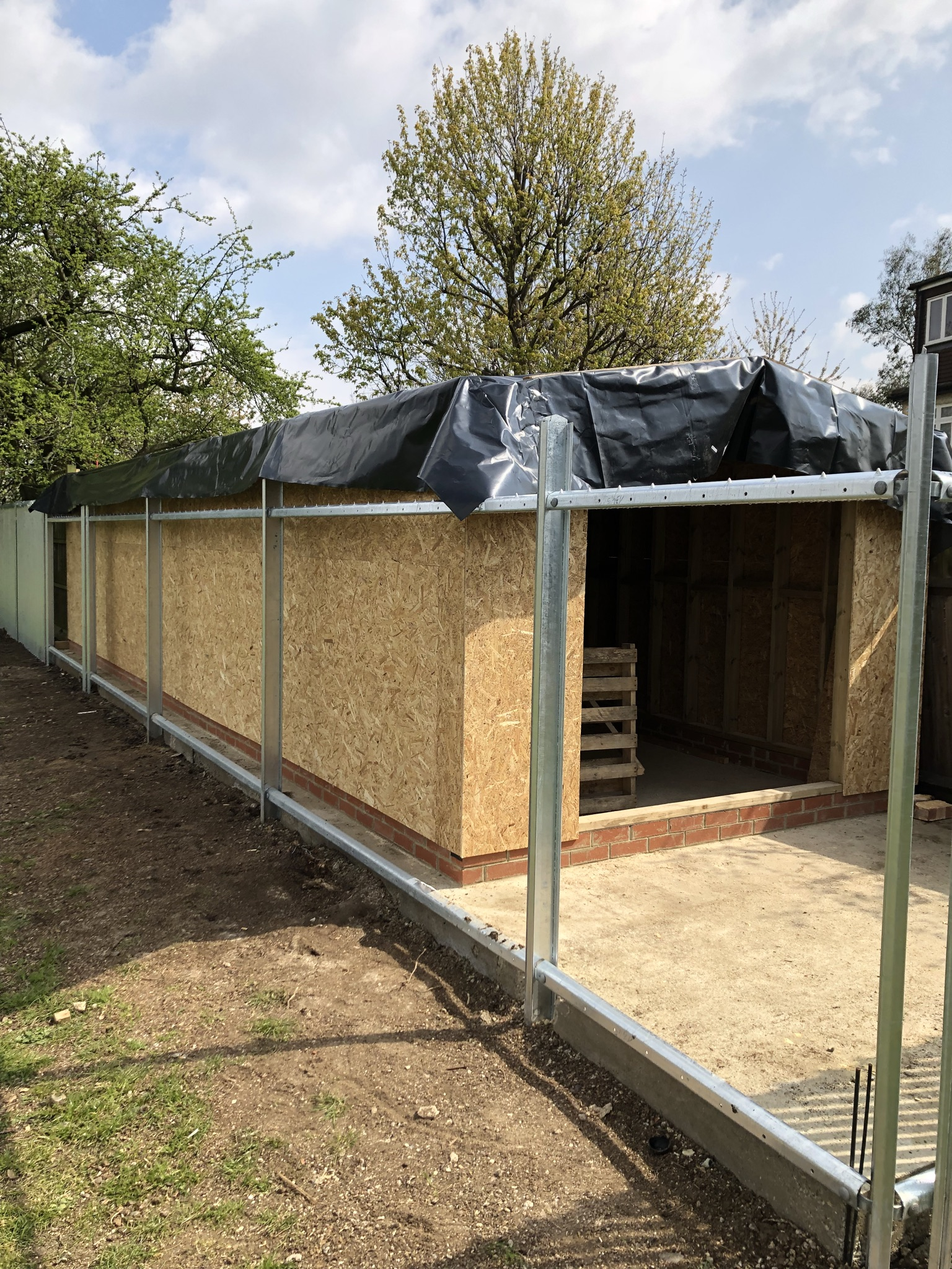
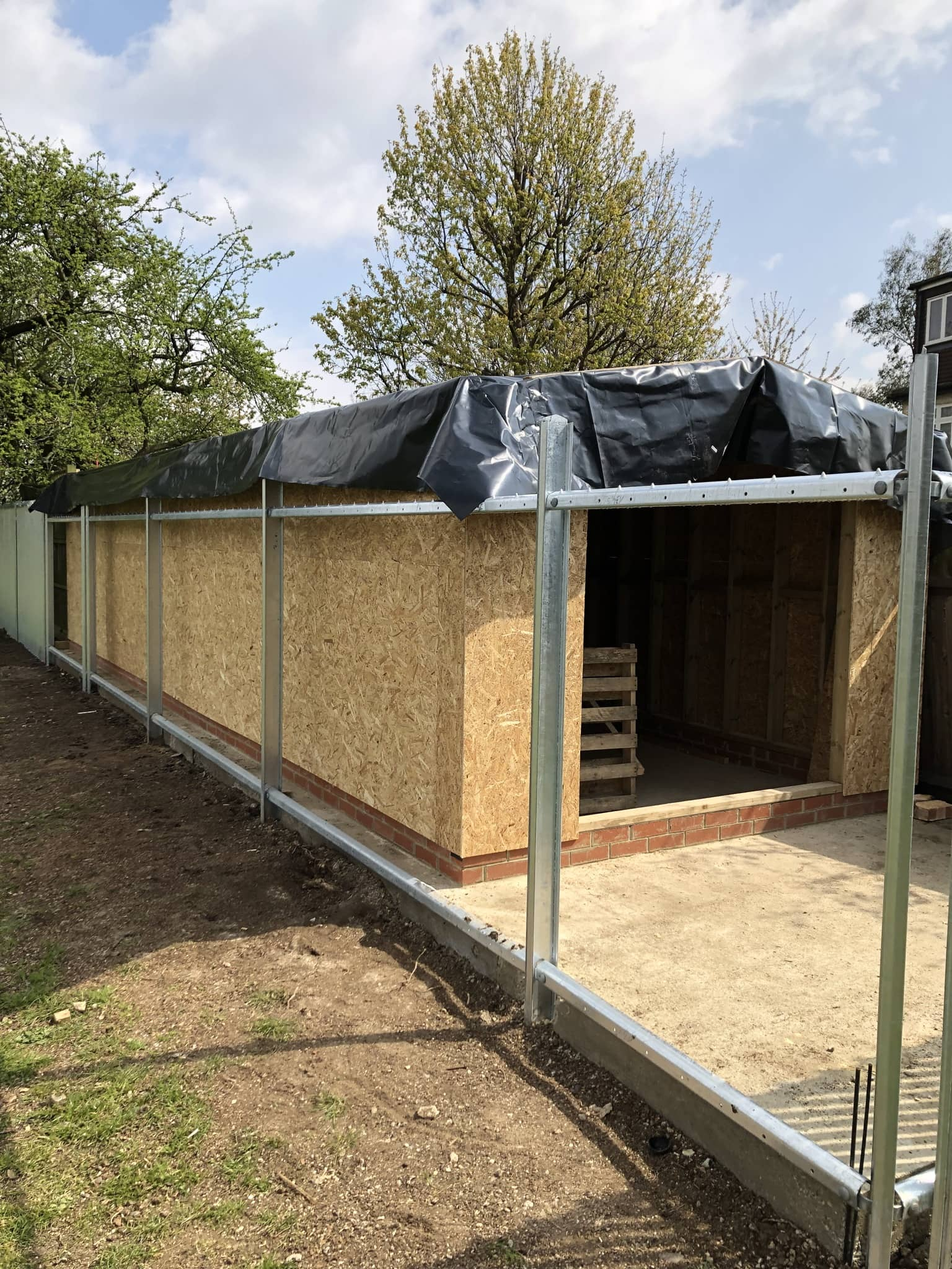
Optimised images for the site

diff --git a/gallery.html b/gallery.html
@@ -132,7 +132,43 @@
 
 			<!-- Gallery image container -->
 			<div class="gallery-img__container">
-				<img src="./assets/gallery/patio-wood.jpg" alt="Garden wooden patio with a wooden shed"
+				<img src="./assets/gallery/patio-wood.jpg" alt="Brown wooden patio"
+					class="gallery-img" loading='lazy'>
+			</div>
+
+			<!-- Gallery image container -->
+			<div class="gallery-img__container">
+				<img src="./assets/gallery/kitchen-island.JPG" alt="Kitchen island with blue LEDs"
+					class="gallery-img" loading='lazy'>
+			</div>
+
+			<!-- Gallery image container -->
+			<div class="gallery-img__container">
+				<img src="./assets/gallery/kitchen-tiles-1.JPEG" alt="Bright kitchen tiles with LEDs"
+					class="gallery-img" loading='lazy'>
+			</div>
+
+			<!-- Gallery image container -->
+			<div class="gallery-img__container">
+				<img src="./assets/gallery/plaster.JPEG" alt="Man plastering a ceiling"
+					class="gallery-img" loading='lazy'>
+			</div>
+
+			<!-- Gallery image container -->
+			<div class="gallery-img__container">
+				<img src="./assets/gallery/shed.JPEG" alt="Shed with big slide doors"
+					class="gallery-img" loading='lazy'>
+			</div>
+
+			<!-- Gallery image container -->
+			<div class="gallery-img__container">
+				<img src="./assets/gallery/fence.JPEG" alt="New wooden fence"
+					class="gallery-img" loading='lazy'>
+			</div>
+
+			<!-- Gallery image container -->
+			<div class="gallery-img__container">
+				<img src="./assets/gallery/wooden-shed-patio.jpg" alt="Wooden shed on a patio"
 					class="gallery-img" loading='lazy'>
 			</div>
 
@@ -209,8 +245,8 @@
 
 					<!-- Button container -->
 					<div class="btn__container btn__container--form">
-						<button class="btn" type='submit' title='Send message'>Send</button>
-						<button class="btn" type='reset' title='Reset form'>Reset</button>
+						<button class="btn btn--form" type='submit' title='Send message'>Send</button>
+						<button class="btn btn--form" type='reset' title='Reset form'>Reset</button>
 					</div>
 
 				</form>

diff --git a/index.html b/index.html
@@ -311,24 +311,6 @@
 					class="gallery-img" loading='lazy'>
 			</div>
 
-			<!-- Gallery image container -->
-			<div class="gallery-img__container">
-				<img src="./assets/gallery/kitchen-large.JPEG" alt="Kitchen with island table in the center"
-					class="gallery-img" loading='lazy'>
-			</div>
-
-			<!-- Gallery image container -->
-			<div class="gallery-img__container">
-				<img src="./assets/gallery/kitchen-small.JPEG" alt="Tiled kitchen with cabinets and lights"
-					class="gallery-img" loading='lazy'>
-			</div>
-
-			<!-- Gallery image container -->
-			<div class="gallery-img__container">
-				<img src="./assets/gallery/patio-wood.jpg" alt="Garden wooden patio with a wooden shed"
-					class="gallery-img" loading='lazy'>
-			</div>
-
 			<!-- Find out more btn container -->
 			<div class="btn__container">
 				<a href="gallery.html" title='See our gallery'>

diff --git a/style/style.css b/style/style.css
@@ -156,11 +156,19 @@ p {
     width: 2rem;
     height: 1rem;
   }
-  .burger:hover .line {
+  .burger:hover .line:first-child {
     -webkit-transform: none;
             transform: none;
   }
-  .burger:active .line {
+  .burger:hover .line:last-child {
+    -webkit-transform: none;
+            transform: none;
+  }
+  .burger:active .line:first-child {
+    -webkit-transform: none;
+            transform: none;
+  }
+  .burger:active .line:last-child {
     -webkit-transform: none;
             transform: none;
   }

diff --git a/bathroom.html b/bathroom.html
@@ -156,8 +156,8 @@
 
 					<!-- Button container -->
 					<div class="btn__container btn__container--form">
-						<button class="btn" type='submit' title='Send message'>Send</button>
-						<button class="btn" type='reset' title='Reset form'>Reset</button>
+						<button class="btn btn--form" type='submit' title='Send message'>Send</button>
+						<button class="btn btn--form" type='reset' title='Reset form'>Reset</button>
 					</div>
 
 				</form>

diff --git a/kitchen.html b/kitchen.html
@@ -168,8 +168,8 @@
 
 					<!-- Button container -->
 					<div class="btn__container btn__container--form">
-						<button class="btn" type='submit' title='Send message'>Send</button>
-						<button class="btn" type='reset' title='Reset form'>Reset</button>
+						<button class="btn btn--form" type='submit' title='Send message'>Send</button>
+						<button class="btn btn--form" type='reset' title='Reset form'>Reset</button>
 					</div>
 
 				</form>

diff --git a/other.html b/other.html
@@ -168,8 +168,8 @@
 
 					<!-- Button container -->
 					<div class="btn__container btn__container--form">
-						<button class="btn" type='submit' title='Send message'>Send</button>
-						<button class="btn" type='reset' title='Reset form'>Reset</button>
+						<button class="btn btn--form" type='submit' title='Send message'>Send</button>
+						<button class="btn btn--form" type='reset' title='Reset form'>Reset</button>
 					</div>
 
 				</form>

diff --git a/patio.html b/patio.html
@@ -170,8 +170,8 @@
 
 					<!-- Button container -->
 					<div class="btn__container btn__container--form">
-						<button class="btn" type='submit' title='Send message'>Send</button>
-						<button class="btn" type='reset' title='Reset form'>Reset</button>
+						<button class="btn btn--form" type='submit' title='Send message'>Send</button>
+						<button class="btn btn--form" type='reset' title='Reset form'>Reset</button>
 					</div>
 
 				</form>

diff --git a/style/style.scss b/style/style.scss
@@ -146,11 +146,19 @@ p {
 		width: 2rem;
 		height: 1rem;
 
-		&:hover .line {
+		&:hover .line:first-child {
 			transform: none;
 		}
 	
-		&:active .line {
+		&:hover .line:last-child {
+			transform: none;
+		}
+	
+		&:active .line:first-child {
+			transform: none;
+		}
+	
+		&:active .line:last-child {
 			transform: none;
 		}
 	}
